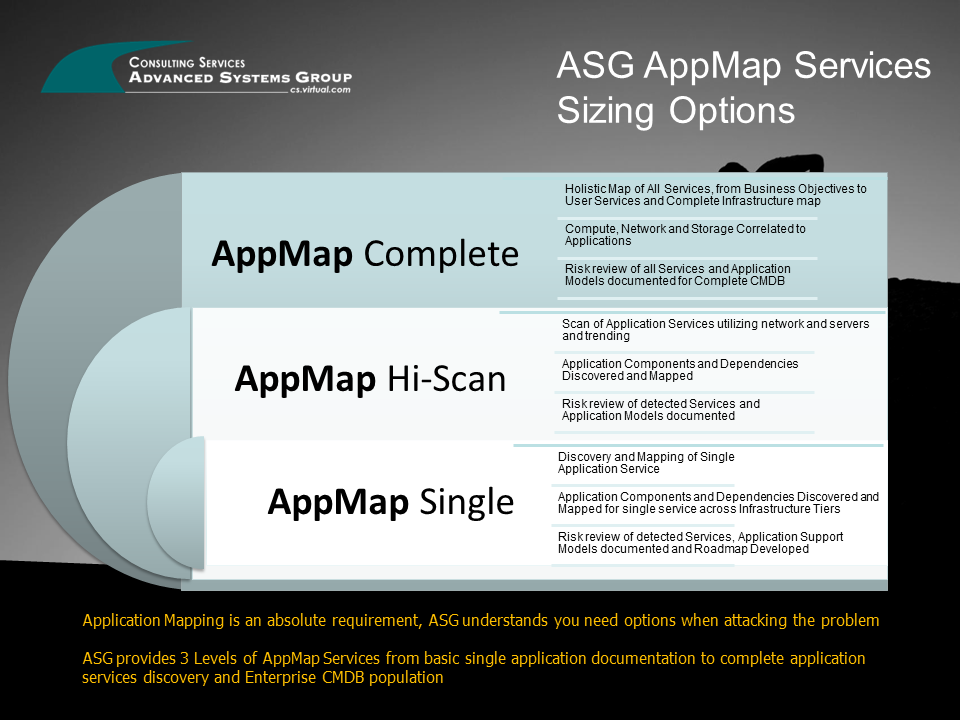
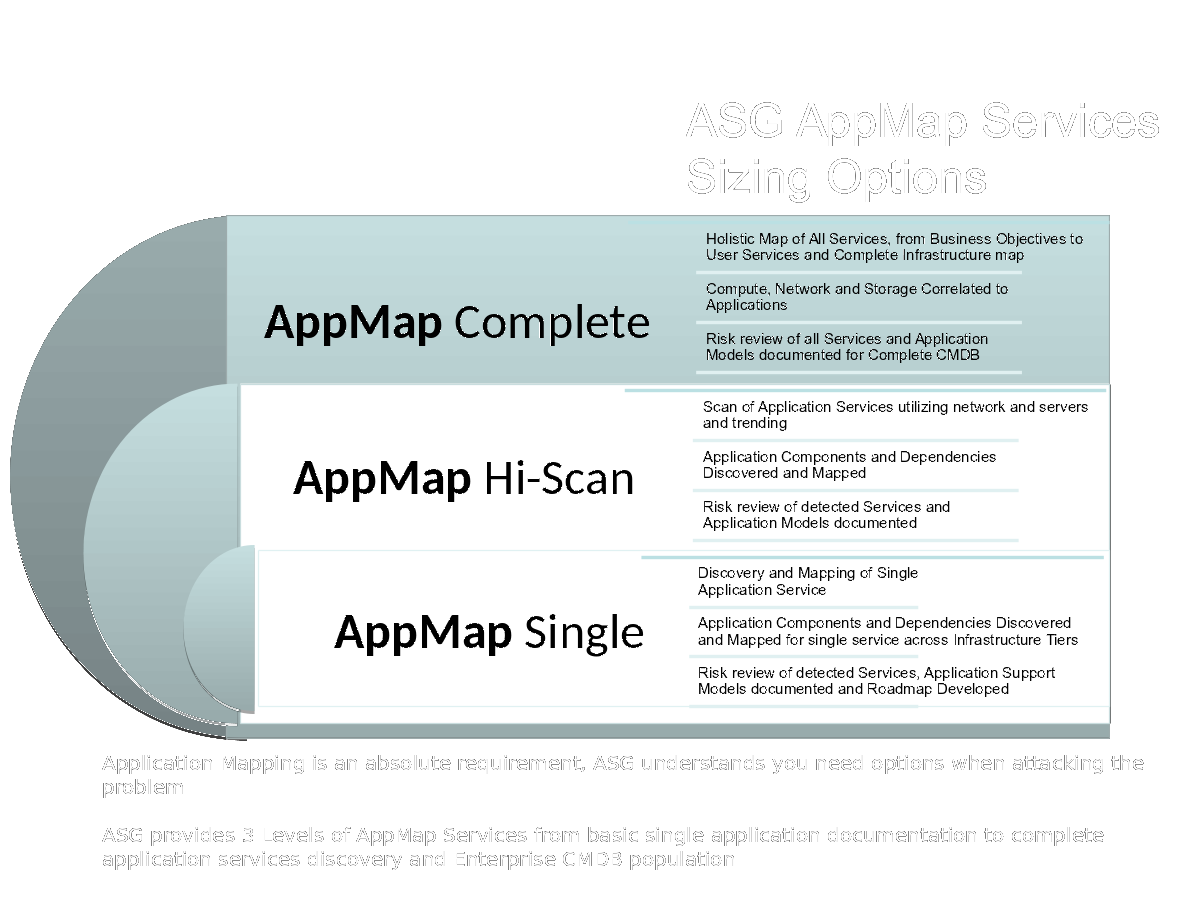
visual improvements on imported ASG slides
used gimp to improve visual layout of slides exported from
ASG ppt as images.

diff --git a/cloudjourney_slides.html b/cloudjourney_slides.html
@@ -387,8 +387,8 @@ Make the time investment
 </section>
 </section>
 <section>
-<section id="slide-orgheadline26" data-background="./asg_slide_bg.png" data-background-transition="slide">
-<h2 id="orgheadline26">What should an IT leader do?</h2>
+<section id="slide-orgheadline27" data-background="./asg_slide_bg.png" data-background-transition="slide">
+<h2 id="orgheadline27">What should an IT leader do?</h2>
 <p>
 What steps can an IT leader take to prepare for Cloud IT
 </p>
@@ -408,23 +408,52 @@ around IT, that's an important signal.
 
 </section>
 <section id="slide-orgheadline23" data-background="./asg_slide_bg.png" data-background-transition="slide">
-<h3 id="orgheadline23">Find peers</h3>
+<h3 id="orgheadline23">Foster Innovation</h3>
+<ul>
+<li class="fragment appear">Give your IT team room to learn and change</li>
+<li class="fragment appear">Encourage education</li>
+<li class="fragment appear">Recognize that processes may have to change</li>
+<li class="fragment appear">And incentives</li>
+<li class="fragment appear">Make better risk calculations</li>
+
+</ul>
+
+<aside class="notes">
+<p>
+people need space to work. Send them to educational events that aren't the same.
+Get them to report back to the team what they learned.  
+</p>
+
+<p>
+This is cultural change.  you can quash it or you can give it room to grow.  
+</p>
+
+<p>
+incentives may need realignment and you need to better understand what risks are
+worth taking.  Are you rewarding the status quo and minimal change via your policies?
+</p>
+
+</aside>
+
+</section>
+<section id="slide-orgheadline24" data-background="./asg_slide_bg.png" data-background-transition="slide">
+<h3 id="orgheadline24">Find peers</h3>
 <p align="left">
 Get out into the community. Find peer customers. Find trusted advisors(like asg)
 to extend staff and introduce new modes of operating
 </p>
 
 </section>
-<section id="slide-orgheadline25" data-background="./asg_slide_bg.png" data-background-transition="slide">
-<h3 id="orgheadline25">Find trusted advisors</h3>
+<section id="slide-orgheadline26" data-background="./asg_slide_bg.png" data-background-transition="slide">
+<h3 id="orgheadline26">Find trusted advisors</h3>
 <p align="left">
 Talk to your technology partners. Ask them probing questions. What are they
 asking you?  How can they help you make start this journey
 </p>
 
 </section>
-<section id="slide-orgheadline24" data-background="./asg_slide_bg.png" data-background-transition="slide">
-<h4 id="orgheadline24">Themes to listen for:</h4>
+<section id="slide-orgheadline25" data-background="./asg_slide_bg.png" data-background-transition="slide">
+<h4 id="orgheadline25">Themes to listen for:</h4>
 <ul>
 <li>faster</li>
 <li>automated</li>
@@ -438,29 +467,44 @@ asking you?  How can they help you make start this journey
 </section>
 </section>
 <section>
-<section id="slide-orgheadline30" data-background="./asg_slide_bg.png" data-background-transition="slide">
-<h2 id="orgheadline30">ASG can help</h2>
+<section id="slide-orgheadline31" data-background="./asg_slide_bg.png" data-background-transition="slide">
+<h2 id="orgheadline31">ASG can help</h2>
 <p align="left">
 With our Application Mapping Service and Cloud Roadmap Service
 </p>
 
 </section>
-<section id="slide-orgheadline27" data-background="./ASG-AppMap-slide1.png" data-background-size="80%" data-background-transition="slide">
-<h3 id="orgheadline27"></h3>
-
-</section>
-<section id="slide-orgheadline28" data-background="./ASG-AppMap-slide2.png" data-background-size="80%" data-background-transition="slide">
+<section id="slide-orgheadline28" data-background="./asg_slide_bg.png" data-background-transition="slide">
 <h3 id="orgheadline28"></h3>
 
+<div class="figure">
+<p><img src="./ASG-AppMap-slide1.png" alt="ASG-AppMap-slide1.png" />
+</p>
+</div>
+
 </section>
-<section id="slide-orgheadline29" data-background="./ASG-AppMap-slide3.png" data-background-size="80%" data-background-transition="slide">
+<section id="slide-orgheadline29" data-background="./asg_slide_bg.png" data-background-transition="slide">
 <h3 id="orgheadline29"></h3>
+
+<div class="figure">
+<p><img src="./ASG-AppMap-slide2.png" alt="ASG-AppMap-slide2.png" />
+</p>
+</div>
+
+</section>
+<section id="slide-orgheadline30" data-background="./asg_slide_bg.png" data-background-transition="slide">
+<h3 id="orgheadline30"></h3>
+
+<div class="figure">
+<p><img src="./ASG-AppMap-slide3.png" alt="ASG-AppMap-slide3.png" />
+</p>
+</div>
 
 </section>
 </section>
 <section>
-<section id="slide-orgheadline38" data-background="./asg_slide_bg.png" data-background-transition="slide">
-<h2 id="orgheadline38">ASG and Tintri</h2>
+<section id="slide-orgheadline39" data-background="./asg_slide_bg.png" data-background-transition="slide">
+<h2 id="orgheadline39">ASG and Tintri</h2>
 <p>
 ASG partners with Tintri. Tintri's VM-aware storage is an example of a product
 that provides many of the attributes to ready enterprise customers to being
@@ -472,40 +516,40 @@ How?
 </p>
 
 </section>
-<section id="slide-orgheadline31" data-background="./tintri_slide1.png" data-background-transition="slide">
-<h3 id="orgheadline31"></h3>
-
-</section>
-<section id="slide-orgheadline32" data-background="./tintri_slide2.png" data-background-transition="slide">
+<section id="slide-orgheadline32" data-background="./tintri_slide1.png" data-background-transition="slide">
 <h3 id="orgheadline32"></h3>
 
 </section>
-<section id="slide-orgheadline33" data-background="./tintri_slide3.png" data-background-transition="slide">
+<section id="slide-orgheadline33" data-background="./tintri_slide2.png" data-background-transition="slide">
 <h3 id="orgheadline33"></h3>
 
 </section>
-<section id="slide-orgheadline34" data-background="./tintri_slide4.png" data-background-transition="slide">
+<section id="slide-orgheadline34" data-background="./tintri_slide3.png" data-background-transition="slide">
 <h3 id="orgheadline34"></h3>
 
 </section>
-<section id="slide-orgheadline35" data-background="./tintri_slide5.png" data-background-transition="slide">
+<section id="slide-orgheadline35" data-background="./tintri_slide4.png" data-background-transition="slide">
 <h3 id="orgheadline35"></h3>
 
 </section>
-<section id="slide-orgheadline36" data-background="./tintri_slide6.png" data-background-transition="slide">
+<section id="slide-orgheadline36" data-background="./tintri_slide5.png" data-background-transition="slide">
 <h3 id="orgheadline36"></h3>
+
+</section>
+<section id="slide-orgheadline37" data-background="./tintri_slide6.png" data-background-transition="slide">
+<h3 id="orgheadline37"></h3>
 
 
 </section>
-<section id="slide-orgheadline37" data-background="./tintri_slide7.png" data-background-transition="slide">
-<h3 id="orgheadline37"></h3>
+<section id="slide-orgheadline38" data-background="./tintri_slide7.png" data-background-transition="slide">
+<h3 id="orgheadline38"></h3>
 
 
 </section>
 </section>
 <section>
-<section id="slide-orgheadline39" data-background="./asg_slide_bg.png" data-background-transition="slide">
-<h2 id="orgheadline39">Thank you</h2>
+<section id="slide-orgheadline40" data-background="./asg_slide_bg.png" data-background-transition="slide">
+<h2 id="orgheadline40">Thank you</h2>
 <p>
 Questions?
 </p>
